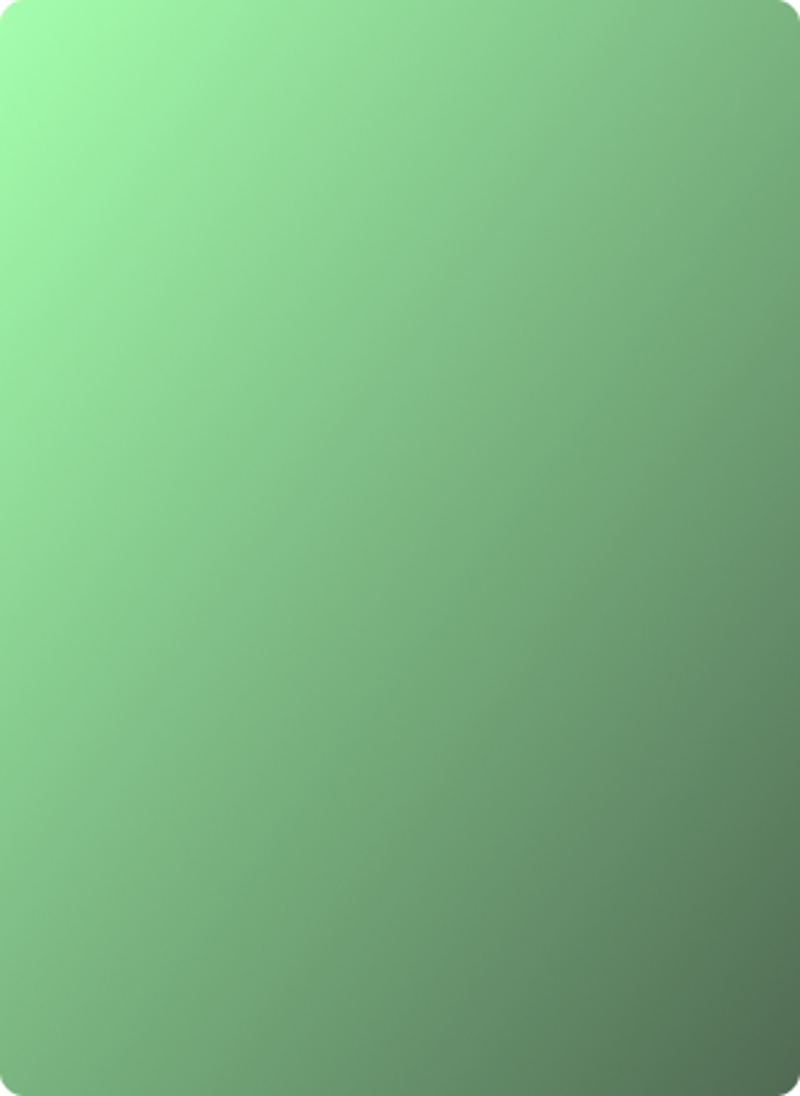
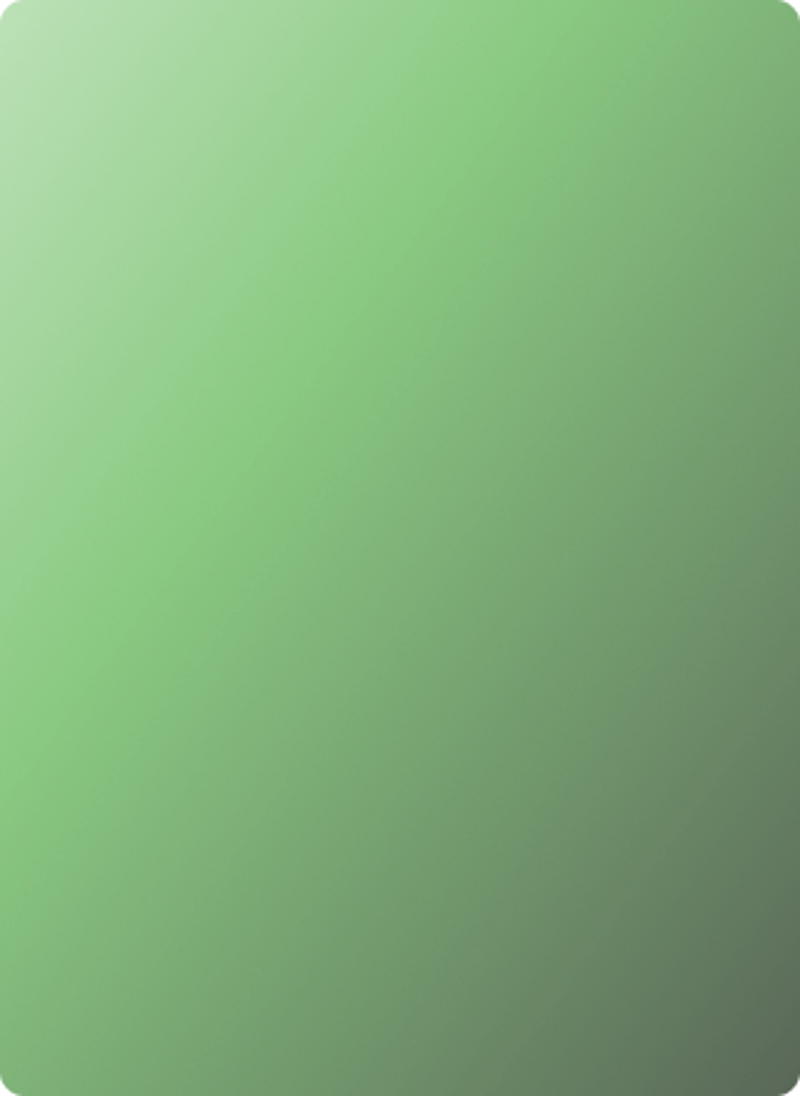
welcome screen

Changed region(s): [[0.0, 0.0, 0.1562, 0.1551]]

diff --git a/app/js/screens/ScreenWelcome.js b/app/js/screens/ScreenWelcome.js
@@ -31,6 +31,10 @@ class ScreenWelcome extends Component {
     return (
       <View style={styles.mainContainer}>
         <View style={styles.curStatusBar}></View>
+        <Image
+          source={require("../../assets/backgroundPNG/green_background_withQuran.png")}
+          style={styles.backgroundImage}
+        ></Image>
         <View style={styles.messageContainer}>
           <Text style={this.getTitleStyle()}>
             {this.stringsManager.getStr(strings.STR_GREETING)}
@@ -39,6 +43,31 @@ class ScreenWelcome extends Component {
             {this.stringsManager.getStr(strings.STR_MOTIVATION)}
           </Text>
           <View style={styles.separator}></View>
+          <Text style={this.getInstructionsTitleStyle()}>
+            {this.stringsManager.getStr(strings.STR_INSTRUCTIONS_TITLE)}
+          </Text>
+          <Text style={this.getInstructionsStyle()}>
+            {this.stringsManager.getStr(strings.STR_INSTRUCTIONS)}
+          </Text>
+        </View>
+        <View style={this.getCheckBoxContainerStyle()}>
+          <CheckBox
+            onClick={() => {
+              this.props.reduxActionSetWelcomeFlag(!this.props.bSkipWelcome);
+            }}
+            isChecked={this.props.bSkipWelcome}
+            checkBoxColor="#0C3D11"
+          />
+          <TouchableHighlight
+            onPress={() => {
+              this.props.reduxActionSetWelcomeFlag(!this.props.bSkipWelcome);
+            }}
+            underlayColor="#FFFFFF11"
+          >
+            <Text style={this.getCheckBoxTextStyle()}>
+              {this.stringsManager.getStr(strings.STR_SKIP_SCREEN)}
+            </Text>
+          </TouchableHighlight>
         </View>
         {this.renderOKButton(
           strings.STR_START_NOW,
@@ -53,7 +82,7 @@ class ScreenWelcome extends Component {
       lineHeight: 63,
       fontFamily: this.props.strLang == "ar" ? "Amiri_Bold" : "Poppins",
       textAlign: "center",
-      color: "#FF00FF",
+      color: "#FFFFFF",
       margin: 20,
     };
   }
@@ -63,7 +92,48 @@ class ScreenWelcome extends Component {
       lineHeight: 36,
       fontFamily: this.props.strLang == "ar" ? "Amiri_Bold" : "Poppins",
       textAlign: "center",
-      color: "#FF00FF",
+      color: "#FFFFFF",
+      marginHorizontal: 50,
+    };
+  }
+  getInstructionsTitleStyle() {
+    return {
+      fontSize: this.props.strLang == "ar" ? 22 : 18,
+      lineHeight: 36,
+      fontFamily: this.props.strLang == "ar" ? "Amiri_Bold" : "Poppins",
+      textAlign: this.props.strLang == "ar" ? "right" : "left",
+      textDecorationLine: "underline",
+      color: "#FFFFFF",
+      marginHorizontal: 50,
+    };
+  }
+  getInstructionsStyle() {
+    return {
+      fontSize: this.props.strLang == "ar" ? 22 : 18,
+      lineHeight: 36,
+      fontFamily: this.props.strLang == "ar" ? "Amiri_Bold" : "Poppins",
+      textAlign: this.props.strLang == "ar" ? "right" : "left",
+      color: "#FFFFFF",
+      marginHorizontal: 40,
+    };
+  }
+  getCheckBoxContainerStyle() {
+    return {
+      marginVertical: 30,
+      marginHorizontal: 70,
+      height: 55,
+      flexDirection: this.props.strLang == "ar" ? "row-reverse" : "row",
+      alignContent: "center",
+      width: "93%",
+    };
+  }
+  getCheckBoxTextStyle() {
+    return {
+      fontSize: 15,
+      fontFamily: "Amiri_Bold",
+      textAlign: "center",
+      color: "#0C3D11",
+      lineHeight: 30,
     };
   }
   renderOKButton(nStrID) {
@@ -122,26 +192,32 @@ export default connect(mapStateToProps, mapDispatchToProps())(ScreenWelcome);
 const styles = StyleSheet.create({
   mainContainer: {
     flex: 1,
+    width: "100%",
     alignItems: "center",
     justifyContent: "flex-start",
     backgroundColor: "#EEEEEE",
   },
+  backgroundImage: {
+    position: "absolute",
+    top: StatusBar.currentHeight + 36,
+    width: "93%",
+    height: "60%",
+    borderRadius: 10,
+  },
   curStatusBar: {
     width: "100%",
-    height: StatusBar.currentHeight + 10,
+    height: StatusBar.currentHeight + 35,
   },
   messageContainer: {
     alignItems: "center",
     backgroundColor: "#FFFFF",
-    borderColor: "#FF0000",
-    borderWidth: 1,
   },
   separator: {
     borderColor: "#FFFFFF59",
     borderWidth: 1,
     borderRadius: 10,
+    width: 280,
     height: 1,
-    width: "66%",
     marginBottom: 15,
   },
 });
